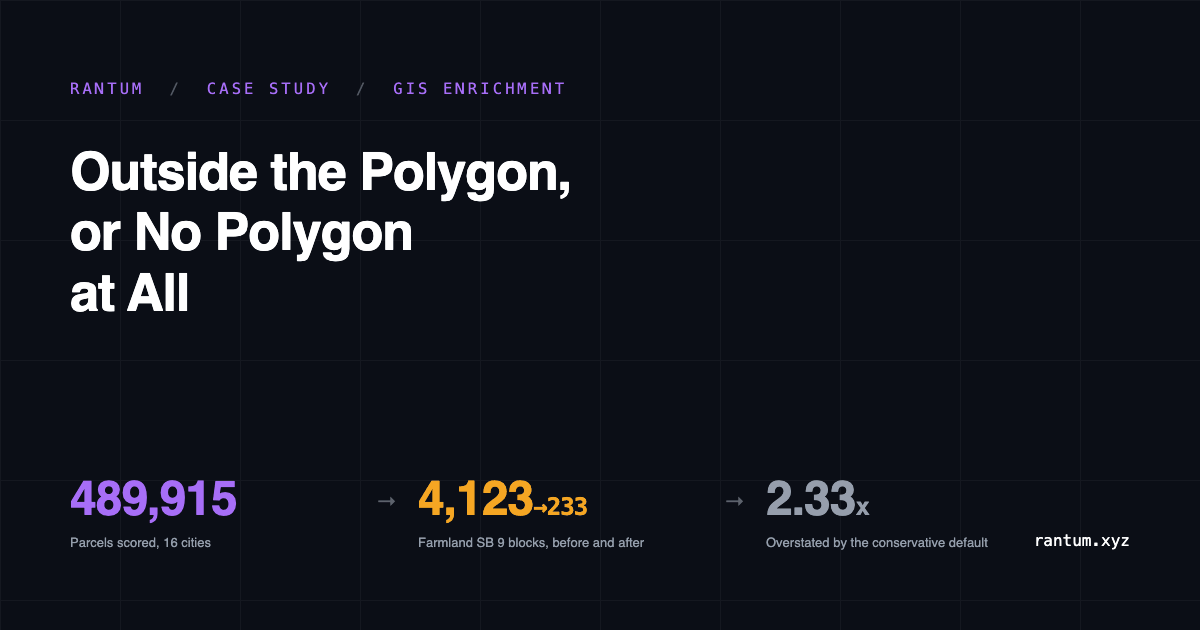
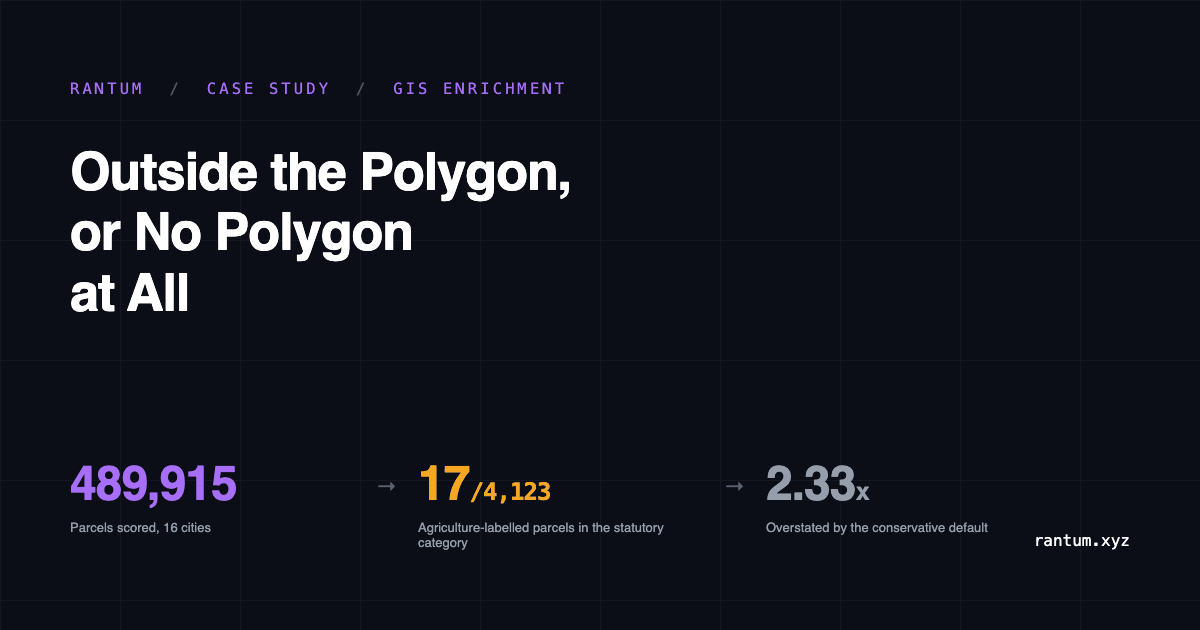
case study: apply the critic pass (12 findings, all reproduced)
A cold reviewer re-measured every figure against the DB and the code. The
arithmetic all reproduced; twelve claims about what the CODE does did not,
four of them taken from docstrings the executed code contradicts.

The one that mattered: the "unknown is the resume cursor" section proved its
mechanism with the 221 null farmland lookups, and all 221 are San Mateo
listings, where the backfill sets farmland null unconditionally because no
FMMP source is wired. No run resolves them. They are a permanent unknown, not
a queue. The 1,511 cornerLot nulls ARE a queue. Section rewritten around the
difference, which is a stronger paragraph than the one it replaces.

Also corrected: the estimated FAR tier does not use the 0.40 default (one of
the three lands at ~0.52 effective, ABOVE the curated cluster); two towns were
curated 2026-09-03, not one, and the second is wrong by 29x at ten acres; the
worker pool is four at the CLI entry point, not the docstring's eight; the
empty-layer discriminator sits on the BULK path and the per-point lookups the
page narrates still have none; the ag-preserve snapshot is a recovered
reconstruction with a stated coverage limit; 4,104 is the repo's historical
figure and is not the same set as today's 4,123 union; 233 is the
farmland-family count, while 3,157 of the union stay blocked on other reasons;
the three sets do not nest; the two towns with their own ArcGIS orgs are San
Mateo's; fourteen hosts, not three; `enrichments` is not in DEV_MARKERS;
[…]

Changed region(s): [[0.3392, 0.7238, 0.555, 0.8746], [0.6167, 0.7238, 0.8325, 0.8746], [0.0617, 0.7238, 0.2158, 0.8746]]

diff --git a/case-studies/point-in-polygon-parcel-overlays.html b/case-studies/point-in-polygon-parcel-overlays.html
@@ -4,9 +4,9 @@
     <meta charset="UTF-8">
     <meta name="viewport" content="width=device-width, initial-scale=1.0">
     <title>Outside the Polygon, or No Polygon at All | Rantum Studio</title>
-    <meta name="description" content="AddressIntel runs point-in-polygon lookups against county ArcGIS layers over 489,915 parcels. The spatial join is the easy part. Four times the overlay returned a confident answer where the correct one was unknown.">
+    <meta name="description" content="AddressIntel runs point-in-polygon lookups against county ArcGIS layers over 489,915 parcels. The spatial join is the easy part. Four times the overlay gave a definite answer where something weaker was called for.">
     <meta property="og:title" content="Outside the Polygon, or No Polygon at All | Rantum Studio">
-    <meta property="og:description" content="AddressIntel runs point-in-polygon lookups against county ArcGIS layers over 489,915 parcels. The spatial join is the easy part. Four times the overlay returned a confident answer where the correct one was unknown.">
+    <meta property="og:description" content="AddressIntel runs point-in-polygon lookups against county ArcGIS layers over 489,915 parcels. The spatial join is the easy part. Four times the overlay gave a definite answer where something weaker was called for.">
     <meta property="og:image" content="https://rantum.xyz/og-point-in-polygon-parcel-overlays.png">
     <meta property="og:image:width" content="1200">
     <meta property="og:image:height" content="630">
@@ -88,21 +88,24 @@
         <!-- Article Content (Prose) -->
         <article class="prose prose-invert prose-lg max-w-none prose-headings:font-bold prose-headings:tracking-tight prose-a:text-purple-400 prose-code:text-purple-300">
             <p>
-                <a href="https://addressintel.co" target="_blank" rel="noopener noreferrer">AddressIntel</a>, our predictive real-estate intelligence platform, fuses San Mateo and Santa Clara County GIS layers onto parcels: zoning, fire hazard severity, flood, fault, liquefaction, landslide, farmland, Williamson Act contracts, Coastal Zone. The mechanism is a point-in-polygon lookup against each county's ArcGIS REST endpoint, and then a derived answer about what can legally be built. The scored table holds 489,915 parcels across 16 cities.
+                <a href="https://addressintel.co" target="_blank" rel="noopener noreferrer">AddressIntel</a>, our predictive real-estate intelligence project, fuses San Mateo and Santa Clara County GIS layers onto parcels: zoning, fire hazard severity, flood, fault, liquefaction, landslide, farmland, Williamson Act contracts, Coastal Zone. The mechanism is a point-in-polygon lookup against each county's ArcGIS REST endpoint, and then a derived answer about what can legally be built. The scored table holds 489,915 parcels across 16 cities.
             </p>
             <p>
-                Writing the lookup took an afternoon. Every expensive mistake since has been the same mistake, in four different places: the pipeline produced a definite answer where the available answer was that it did not know. A layer that had been emptied upstream read as a clean negative. A polygon hit got reported as a legal conclusion it does not support. A fallback rule chosen to be conservative was not conservative in the one place it mattered. And a city publishing that it declines to assess a parcel nearly became a number anyway.
+                Writing the lookup took an afternoon. Every expensive mistake since has come from the same place: the pipeline had a definite answer to give and gave it, where something weaker was called for. Four of them are below. Two are the pure form, a confident answer standing in for one the pipeline did not have: a layer emptied upstream that read as a clean negative, and a fallback rule chosen to be conservative that was not conservative where it mattered. The other two are its neighbours, and they are worth separating rather than folding in. One is a confident answer that was simply the wrong answer, a polygon hit reported as a legal conclusion it does not support. One is a refusal that survived, a city declining to assess a parcel, which the pipeline carries instead of filling in, and which a careless query nearly flattened anyway.
             </p>
             <p>
-                Each fix has the same shape: make unknown representable, and keep it distinct from no.
+                The fixes converge even where the faults differ: make the weaker answer representable, and keep it distinct from no.
+            </p>
+            <p>
+                A sibling piece, <a href="adversarial-permit-portals.html">Scraping Adversarial Municipal Portals</a>, covers the same shape in a different layer: a source that answers cheerfully and wrong, a rejected login returning an empty list. That one is about scraping HTML portals and detecting silent truncation. This one is about the spatial join and what a polygon lookup is entitled to conclude.
             </p>
 
             <h2>What the lookup is</h2>
             <p>
-                For each parcel centroid the pipeline posts the point to the county's layer with <code>geometryType=esriGeometryPoint</code> and <code>spatialRel=esriSpatialRelIntersects</code>, and reads back either the intersecting feature's attributes or a count. San Mateo County's layers sit on a self-hosted <code>gis.smcgov.org</code> MapServer; Santa Clara County's sit on ArcGIS Online, with two towns publishing their own zoning from their own ArcGIS organisations because the county layer does not carry it. FEMA's National Flood Hazard Layer is a third host. The enrichment module that holds these is 2,223 lines, and most of that is neither geometry nor SQL.
+                For each parcel centroid the pipeline posts the point to the county's layer with <code>geometryType=esriGeometryPoint</code> and <code>spatialRel=esriSpatialRelIntersects</code>, and reads back either the intersecting feature's attributes or a count. San Mateo County's layers sit on a self-hosted <code>gis.smcgov.org</code> MapServer, and two of its towns publish their own zoning from their own ArcGIS organisations because the county layer answers <code>NO DATA ASSIGNED</code> for them. Santa Clara County's sit on ArcGIS Online. Counting only the scoring path there are fourteen distinct hosts, plus those two town organisations and one city delivered as a local shapefile: FEMA, the counties, and seven cities that publish their own. The enrichment module that holds these is 2,223 lines, and most of that is neither geometry nor SQL.
             </p>
             <p>
-                The reliability work is the visible part. The Santa Clara host answers bursts with read timeouts and connection resets, so calls to it pass through a two-permit semaphore, two attempts with exponential backoff and jitter, and a staggered release so threads queued on the semaphore do not all fire the instant a slot frees. Above that sits a circuit breaker that opens after three consecutive call failures and skips the rest of the run. The breaker's own counters had to be put under a lock: without one, concurrent threads each crossed the threshold independently and logged the same trip line several times a few milliseconds apart, which is how the race was found.
+                The reliability work is the visible part. The Santa Clara host answers bursts with read timeouts and connection resets, so calls to it pass through a two-permit semaphore, two attempts with a jittered backoff sleep between them, and a staggered release so threads queued on the semaphore do not all fire the instant a slot frees. Above that sits a circuit breaker that opens after three consecutive call failures and skips the rest of the run. The breaker's own counters had to be put under a lock: without one, concurrent threads each crossed the threshold independently and logged the same trip line several times a few milliseconds apart, which is how the race was found.
             </p>
             <p>
                 None of that is the interesting failure. A timed-out call is loud. The failures below were all quiet.
@@ -125,7 +128,10 @@
 print(f"    WARN {label}: fetch failed ({e}) &mdash; layer treated as unknown")
 return None</code></pre>
             <p>
-                An empty list and <code>None</code> are different values, deliberately, and every caller has to handle both. That distinction is the whole fix. The preserve signal itself now comes from a frozen snapshot taken before the layer was emptied, rather than from a live lookup that cannot tell us when it has stopped working.
+                An empty list and <code>None</code> are different values, deliberately, and every caller has to handle both.
+            </p>
+            <p>
+                That discriminator sits on the bulk collection path, and it is worth being exact about which path it does not sit on. The per-point lookups the listing-level enrichment uses still ask <code>returnCountOnly</code> one parcel at a time and still end in <code>return c &gt; 0</code>, with no row-count probe. The farmland, Williamson Act and county SB 9 layers all go through that path, and every one of them would still read an emptied layer as a clean negative. The ag-preserve signal was not fixed by teaching that path the difference. It was fixed by retiring the live lookup and reading a snapshot taken before the layer was emptied, which the file itself qualifies: it was recovered from pre-emptying caches, two cities' caches had already been overwritten, and it is complete for the scored footprint rather than countywide. The general lesson survives the specific fix, and so does the exposure.
             </p>
 
             <h2>A polygon hit is not a legal conclusion</h2>
@@ -141,7 +147,7 @@ return None</code></pre>
                 <li><strong>4,107 parcels</strong> sit in an agricultural preserve, 2,626 of them in Los Gatos and 1,228 in San Jose. An ag preserve is neither prime farmland nor a voter-approved agricultural protection measure, so it is not an SB 9 bar at all.</li>
             </ul>
             <p>
-                Those sets nest: all 216 Williamson parcels are also inside an ag preserve, and the union of the three labels is 4,123 parcels. Under the old flag, every one of those 4,123 was reported as SB 9-disqualified for being prime farmland. Today 233 are disqualified, and only 17 of those are disqualified for the reason the column used to give. The repository's own record of the fix notes that among the parcels the old flag blocked were ordinary San Jose tract houses that the state farmland map classifies as urban and built-up land.
+                The three overlap only partly. All 216 Williamson parcels are also inside an ag preserve, but 16 of the 17 prime-farmland parcels are in neither other set, and the union of the three labels is 4,123 parcels today. The repository's record of the fix puts the old flag's reach at 4,104 Santa Clara parcels blocked as prime farmland, 104 of them ordinary San Jose tract houses the state farmland map classifies as urban and built-up land. That historical set is not the same set as today's union, because the old flag read the farmland layer unfiltered and today's reads only the two statutory categories. Of the 4,123, exactly 233 now carry a farmland-family disqualifier and only 17 of those carry the one the column used to give. The rest of the union is not thereby buildable: 3,157 of the 4,123 are still SB 9-blocked, almost all of them on lot size, flood, fire or fault rather than on anything agricultural.
             </p>
             <p>
                 The Williamson parcels are still blocked, under their own name. The contract forbids the housing project for the length of its rolling term, so reporting such a parcel as eligible would be wrong in the more dangerous direction: it would tell someone they can split land they legally cannot. Blocked, with its reason named accurately, is the correct report, and the reason string is what carries the accuracy.
@@ -165,13 +171,13 @@ return None</code></pre>
 
             <h2>The fallback that was not conservative</h2>
             <p>
-                The second half of the pipeline is rules as code. A screening signal we care about is how built out a lot is, living area over allowable floor area, which needs each jurisdiction's floor-area rule. Those are 19 jurisdictions in a table of formulas, every entry carrying <code>source</code>, <code>asOf</code> and <code>confidence</code>: 9 high, 7 medium, 3 estimated, researched between 30 June and 3 September 2026. The three marked estimated were never individually curated and fall back to a default floor-area ratio of 0.40.
+                The second half of the pipeline is rules as code. A screening signal we care about is how built out a lot is, living area over allowable floor area, which needs each jurisdiction's floor-area rule. Those are 19 jurisdictions in a table of formulas, every entry carrying <code>source</code>, <code>asOf</code> and <code>confidence</code>: 9 high, 7 medium, 3 estimated, researched between 30 June and 3 September 2026. Only one of the three marked estimated is a bare fallback, and it is the interesting one: it applies the default ratio of 0.40 to lot coverage and multiplies by a stories factor, which lands at roughly 0.52 effective, <em>above</em> the curated cluster rather than below it. The other two carry a partial curation that the confidence field declines to promote, one capped from a table in the town's own code with the slope half still missing.
             </p>
             <p>
-                0.40 was chosen to be conservative. It sits at the low end of the curated cluster, so for a city near that cluster it understates allowable area, which biases against false <em>this lot has headroom</em> signals. That reasoning is sound and it is not a safety property, which is a distinction worth the paragraph it costs.
+                The default of 0.40 was chosen to be conservative. It sits at the low end of the curated cluster, so for a city near that cluster it understates allowable area, which biases against false <em>this lot has headroom</em> signals. That reasoning is sound and it is not a safety property, which is a distinction worth the paragraph it costs.
             </p>
             <p>
-                One town was uncurated until 3 September 2026. Its real rule is a ratio of 0.25 tapering to 0.15 above an acre. Against that rule the conservative default overstates allowable floor area by 1.60 times on a half-acre lot and by 2.33 times at 200,000 square feet. The error is largest exactly where lots are biggest and a teardown call carries the most money. An estate town with large lots and a tapering ratio is the shape a flat default gets most wrong, and that is also the shape where the signal gets used hardest.
+                Two towns were curated on 3 September 2026 after an audit, and until that day both inherited the default. One has a ratio of 0.25 tapering to 0.15 above an acre, against which the default overstates allowable floor area by 1.60 times on a half-acre lot and 2.33 times at 200,000 square feet. The other is worse by an order of magnitude, because its caps are absolute rather than proportional: the repo records the default overstating it by 2.7 times at the minimum R-1 lot, 5.8 times at an acre and 29 times on a ten-acre parcel. In both the error is largest exactly where lots are biggest and a teardown call carries the most money. An estate town is the shape a flat default gets most wrong, and it is also the shape where the signal gets used hardest.
             </p>
             <p>
                 The lesson is not that the default was badly chosen. It is that a default is an answer. Uncurated should read as unknown, not as safe, and the <code>confidence</code> field exists so that a caller can tell the difference instead of inheriting our optimism.
@@ -193,14 +199,17 @@ return None</code></pre>
 
             <h2>Unknown is also the resume cursor</h2>
             <p>
-                Keeping unknown distinct from no stops being an honesty argument once the backfill runs. The overlay backfill walks already-enriched rows with an eight-worker pool, and rows whose lookups time out are left undone and picked up next run. What makes that work is that a failed lookup writes <code>None</code> rather than <code>False</code>. The resume predicate reads those nulls as outstanding work:
+                Keeping unknown distinct from no stops being an honesty argument once the backfill runs. The overlay backfill walks already-enriched rows with a four-worker pool, and rows whose lookups time out are left undone and picked up next run. What makes that work is that a failed lookup writes <code>None</code> rather than <code>False</code>. The resume predicate reads those nulls as outstanding work:
             </p>
             <pre><code># Only mark the SCC pass done when BOTH resolved; a None in either
 # means that lookup errored -> retry next run.
 if r["city"] in SCC_CITIES and prime is not None and wact is not None:
     payload["sccPrimeChecked"] = True</code></pre>
             <p>
-                If a transient ArcGIS timeout had been recorded as a negative, the pipeline would be self-consistent, would converge, and would be wrong, with nothing left in the data to indicate which rows had never actually been asked. In the current enrichment rows, 221 parcels have an unresolved farmland lookup against 13 positive and 3,770 negative, and 1,511 have an unresolved corner-lot lookup. Those nulls are not gaps in the dataset. They are the queue.
+                If a transient ArcGIS timeout had been recorded as a negative, the pipeline would be self-consistent, would converge, and would be wrong, with nothing left in the data to indicate which rows had never actually been asked. In the current enrichment rows, 1,511 have an unresolved corner-lot lookup, and the resume predicate names that field, so every one of them will be asked again next run. Those nulls are the queue rather than gaps in the dataset.
+            </p>
+            <p>
+                A second set of nulls looks identical and is not. 221 rows carry an unresolved farmland value against 13 positive and 3,770 negative, and all 221 are San Mateo County listings. The backfill sets farmland to null for that county unconditionally, because no state farmland source is wired for it, so no run will ever resolve them. Both sets are nulls and only one is work. A null says that a value is not known; it does not say whether anyone is still going to look, and a pipeline that wants to act on the difference has to record that separately.
             </p>
 
             <h2>What this pipeline still does not know</h2>
@@ -208,13 +217,13 @@ if r["city"] in SCC_CITIES and prime is not None and wact is not None:
                 Three limits belong on the page rather than in a footnote.
             </p>
             <p>
-                <strong>Zoning is mostly absent at the listing level.</strong> 3,055 of the 4,004 enrichment rows have no GIS zoning value. Without it the derivation cannot reach a hard <em>eligible</em> and returns <em>likely</em> instead, which is why 109,132 of the 489,915 scored parcels sit in that middle state. Absence of a block reason means no disqualifier was found rather than that eligibility was established.
+                <strong>Zoning is mostly absent at the listing level.</strong> 3,055 of the 4,004 enrichment rows have a null GIS zoning value, and a further 782 carry the county layer's own <code>NO DATA ASSIGNED</code> sentinel, which the backfill treats as absent. By the pipeline's own test, 3,837 of 4,004 have no usable zoning and 167 do. Without it the derivation cannot reach a hard <em>eligible</em> and returns <em>likely</em> instead, which is why 109,132 of the 489,915 scored parcels sit in that middle state. Absence of a block reason means no disqualifier was found rather than that eligibility was established.
             </p>
             <p>
                 <strong>A resume cursor can mark a new question answered.</strong> The Williamson Act check became its own signal on 28 September 2026, and the targeted re-pass for it has not reached the listing-level rows: none of the 4,004 carries a <code>williamsonAct</code> value, while 1,943 of them are already marked as having completed the farmland pass under the previous rule. The predicate that skips completed rows looks at that mark, so those rows will not be re-asked until it is invalidated. The parcel-scoring path, which the counts above come from, does carry the separated signals. The same mechanism that makes the backfill resumable is the one that lets a stale <em>done</em> outlive the question it answered, which is worth knowing before trusting any field added after a row was first enriched.
             </p>
             <p>
-                <strong>These counts come from the enrichment copy of the database, which is the only copy that has them.</strong> AddressIntel keeps two copies of a file with the same name: a canonical one that the application serves, and a working one on a development machine. They are not supersets of each other, and on 15 September 2026 four separate published figures were wrong from exactly that confusion. The provenance test written in response identifies a canonical database by requiring a marker table it carries and no marker tables only a development machine builds. The parcel scoring and enrichment tables are in the second set: they are named in the test as development markers, because they are never synced. So every figure in this piece is measured on that copy by necessity, and no canonical counterpart exists to check them against. Saying so is the only available form of provenance here.
+                <strong>These counts come from the enrichment copy of the database, which is the only copy that has them.</strong> AddressIntel keeps two copies of a file with the same name: a canonical one that the application serves, and a working one on a development machine. They are not supersets of each other, and on 15 September 2026 four separate published figures were wrong from exactly that confusion. The provenance test written in response identifies a canonical database by requiring a marker table it carries and no marker tables only a development machine builds. The parcel scoring table is in the second set, named in the test as a development marker because it is never synced. The listing enrichment table is not named in either set, so the test neither confirms nor denies it; it travels with the first because the two sit in the same file. So every figure in this piece is measured on that copy by necessity, and no canonical counterpart exists to check them against. Saying so is the only available form of provenance here.
             </p>
 
             <h2>What to take from it</h2>

diff --git a/case-studies/index.html b/case-studies/index.html
@@ -59,7 +59,7 @@
                     <h3 class="text-2xl font-semibold text-white group-hover:text-purple-400 transition-colors">Outside the Polygon, or No Polygon at All</h3>
                     <svg class="w-5 h-5 text-gray-600 group-hover:text-purple-400 transform translate-x-0 group-hover:translate-x-1 -translate-y-0 group-hover:-translate-y-1 transition-all hidden sm:block" fill="none" stroke="currentColor" viewBox="0 0 24 24"><path stroke-linecap="round" stroke-linejoin="round" stroke-width="2" d="M17 8l4 4m0 0l-4 4m4-4H3"></path></svg>
                 </div>
-                <p class="text-gray-400 leading-relaxed mb-6 max-w-3xl">AddressIntel runs point-in-polygon lookups against county ArcGIS layers over 489,915 parcels. The spatial join is the easy part. Four times the overlay returned a confident answer where the correct one was unknown.</p>
+                <p class="text-gray-400 leading-relaxed mb-6 max-w-3xl">AddressIntel runs point-in-polygon lookups against county ArcGIS layers over 489,915 parcels. The spatial join is the easy part. Four times the overlay gave a definite answer where something weaker was called for.</p>
                 <div class="flex gap-2">
                     <span class="text-xs font-mono px-2 py-1 rounded bg-black/50 text-gray-400 border border-gray-800">GIS Enrichment</span>
                     <span class="text-xs font-mono px-2 py-1 rounded bg-black/50 text-gray-400 border border-gray-800">Rules as Code</span>
